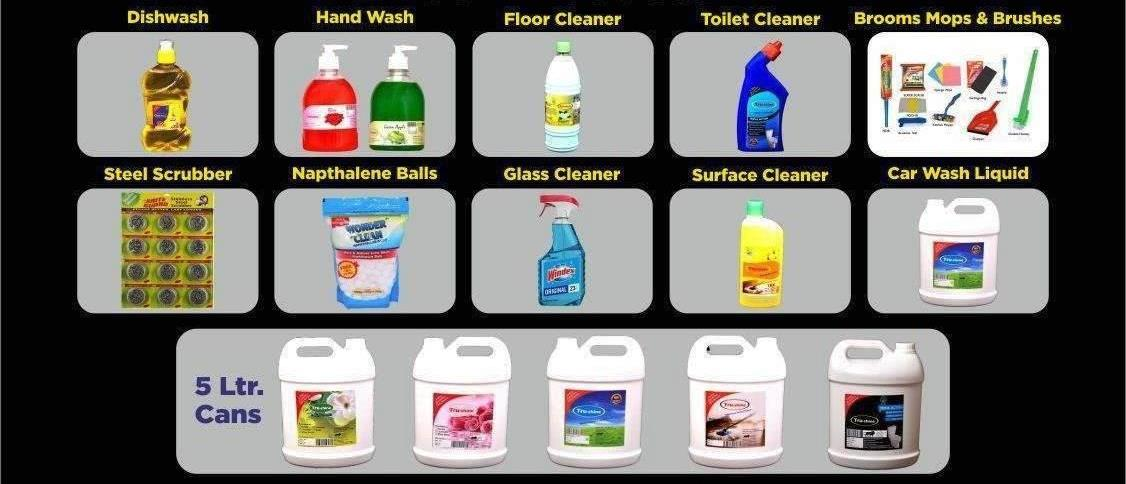
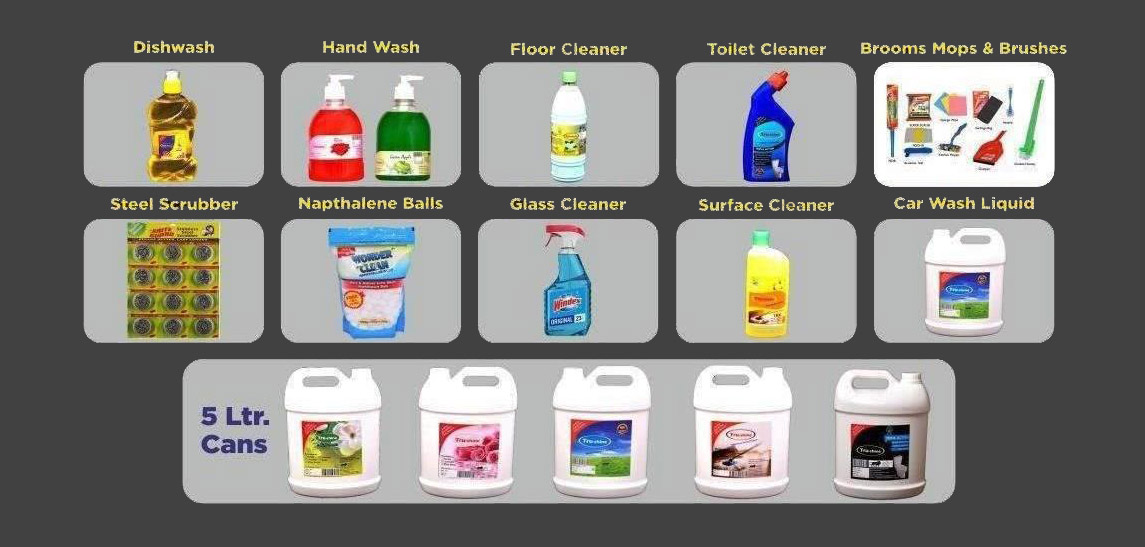
slider chagne image updated uimages inhanced for mobile tablet and desktop.

diff --git a/assets/css/style.css b/assets/css/style.css
@@ -349,34 +349,9 @@ h1, h2, h3, h4, h5, h6 {
 /*--------------------------------------------------------------
 # Hero Section
 --------------------------------------------------------------*/
-#hero {
-  width: 100%;
-  height: 100vh;
-  background-color: rgba(0, 0, 0, 0.8);
-  overflow: hidden;
-  position: relative;
-}
 
-#hero .carousel, #hero .carousel-inner, #hero .carousel-item, #hero .carousel-item::before {
-  background-size: cover;
-  background-position: center;
-  background-repeat: no-repeat;
-  position: absolute;
-  top: 0;
-  right: 0;
-  left: 0;
-  bottom: 0;
-}
-
-#hero .carousel-container {
-  display: flex;
-  align-items: flex-end;
-  justify-content: center;
-  position: absolute;
-  bottom: 60px;
-  top: 70px;
-  left: 55px;
-  right: 55px;
+#hero .carousel-container img{
+  width:100%;
 }
 
 #hero .carousel-content {
@@ -484,33 +459,6 @@ h1, h2, h3, h4, h5, h6 {
   background: #1bbd36;
 }
 
-@media (min-width: 1024px) {
-  #hero .carousel-content {
-    width: 60%;
-  }
-  #hero .carousel-control-prev, #hero .carousel-control-next {
-    width: 5%;
-  }
-}
-
-@media (max-width: 992px) {
-  #hero .carousel-container {
-    top: 58px;
-  }
-  #hero .carousel-content h2 {
-    margin-bottom: 15px;
-    font-size: 22px;
-  }
-  #hero .carousel-content p {
-    font-size: 15px;
-  }
-}
-
-@media (max-height: 500px) {
-  #hero {
-    height: 120vh;
-  }
-}
 
 /*--------------------------------------------------------------
 # Sections General

diff --git a/slider.php b/slider.php
@@ -4,16 +4,20 @@
       <div class="carousel-inner" role="listbox">
 
         <!-- Slide 1 -->
-        <div class="carousel-item active" style="background-image: url(assets/img/slide/1.jpeg);">
+        <div class="carousel-item active" style="background-image: url();">
           <div class="carousel-container">
-           
+           <img src="assets/img/slide/1.jpeg" alt="" class="d-none d-lg-block">
+           <img src="assets/img/slide/1-tab.jpeg" alt=""  class="d-none d-sm-block d-md-block d-lg-none">
+           <img src="assets/img/slide/1-mob.jpeg" alt="" class="d-block d-sm-none">
           </div>
         </div>
 
         <!-- Slide 2 -->
-        <div class="carousel-item" style="background-image: url(assets/img/slide/2.jpeg);">
+        <div class="carousel-item" style="background-image: url();">
           <div class="carousel-container">
-           
+           <img src="assets/img/slide/2.jpeg" alt="" class="d-none d-lg-block">
+           <img src="assets/img/slide/2-tab.jpeg" alt="" class="d-none d-sm-block d-md-block d-lg-none">
+           <img src="assets/img/slide/2-mob.jpeg" alt=""  class="d-block d-sm-none">
           </div>
         </div>
 
